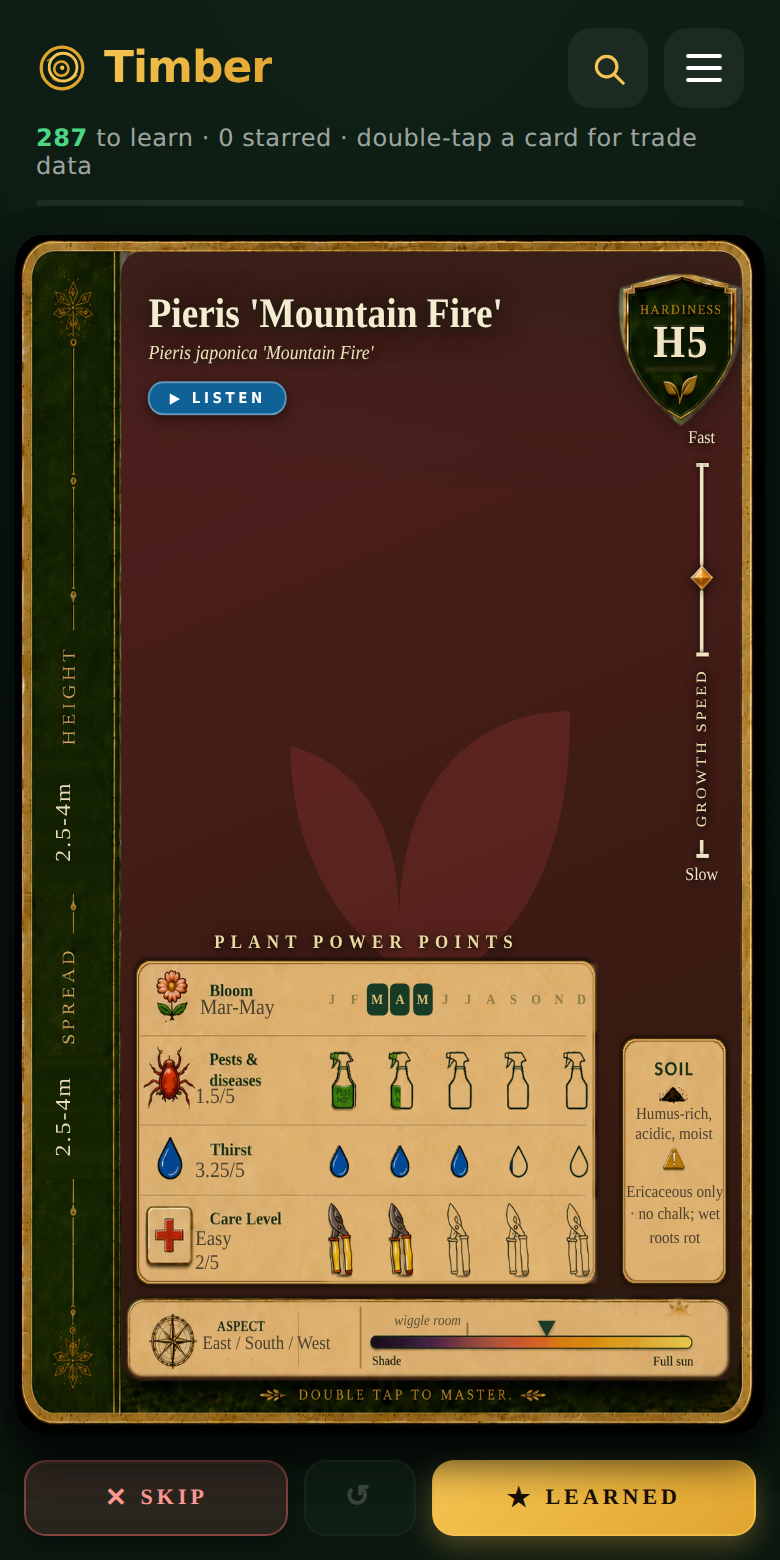
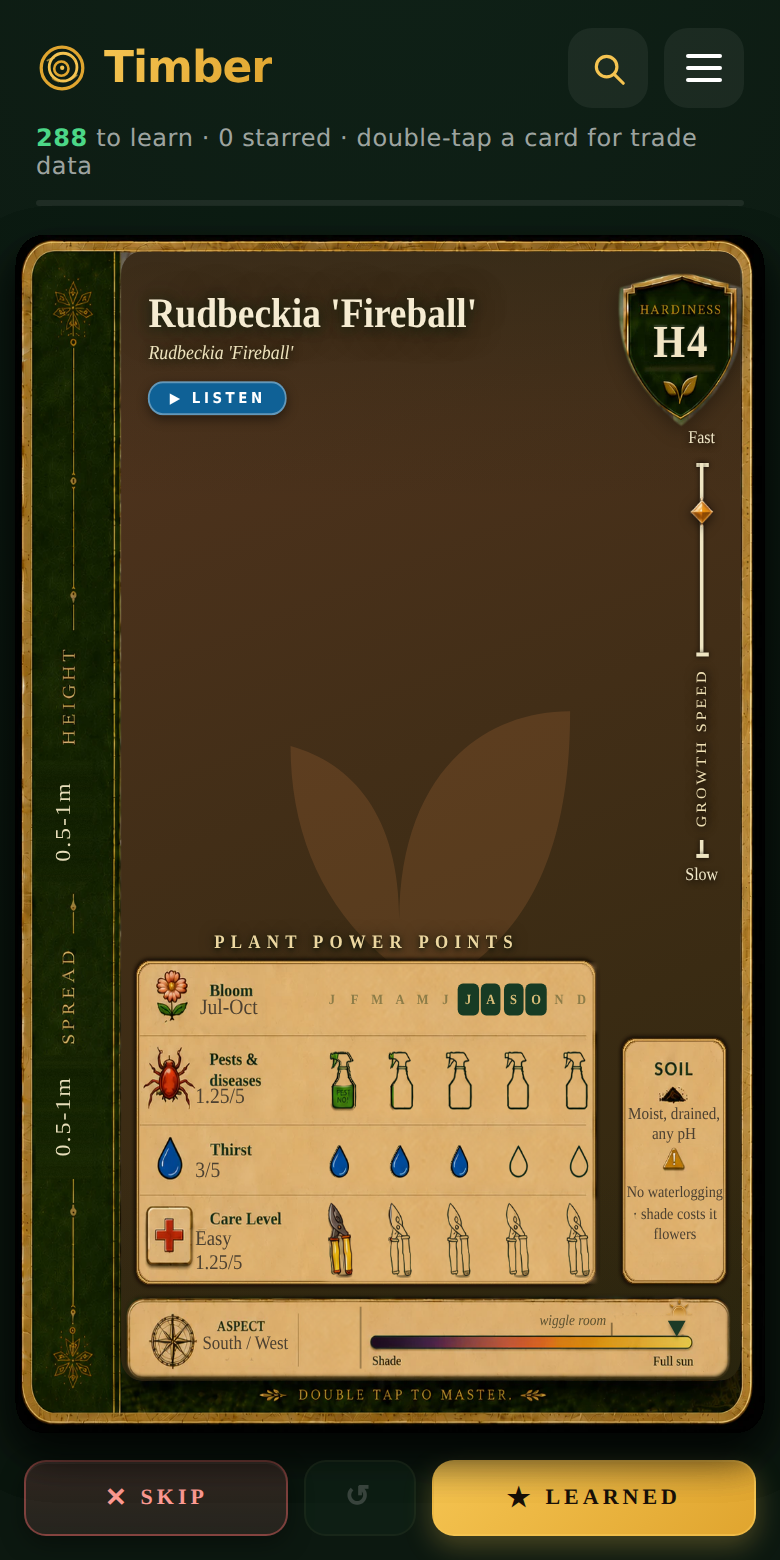
Rudbeckia 'Fireball' dealt: 288 / 86 — the card says "double" because the photograph does
A JSON and a photograph together. Not a duplicate: the deck already holds
Rudbeckia fulgida var. sullivantii 'Goldsturm', which is single-flowered and a
different plant. Nothing else in either block is a Rudbeckia.

LATIN CARRIES NO SPECIES, ON PURPOSE

Oscar's own JSON says "'Fireball' is not sufficiently distinctive from the
supplied label alone to confidently assign a species or hybrid group", so the
card is Rudbeckia 'Fireball' — genus plus cultivar, the same shape as
Pieris 'Forest Flame'. Inventing R. hirta to make the name look complete would
have put an unsourced species on a card staff read out to customers. The held
'Goldsturm' keeps its full species because that one is known.

THE VISUAL IS WRITTEN FROM THE FRAME

The research describes "daisy-like flowers", which implies the single row of ray
florets a daisy has. The photograph shows three or four whorls — unmistakably
double. A card whose words and picture disagree is the failure mode items 69, 70
and 71 all turned on, so the visual reads "Double gold petals with a broad
mahogany base · near-black central cone". Every element of that is visible in
the photograph, and the as-sent research is committed verbatim beside the fitted
file with the difference recorded.

AN IDENTIFICATION NOTE, FLAGGED NOT ACTED ON

[Inference] the dark granular conical disc reads Rudbeckia, but the toothed
ray-floret tips and gold/mahogany banding are also characteristic of Gaillardia,
[…]

diff --git a/timber.html b/timber.html
@@ -1144,7 +1144,7 @@
 
 <script>
 /* ---------- latin pronunciation (built-in speech engine — offline, no files, no deps) ---------- */
-const BUILD='r213 · 2026-09-13 · 91fd95c';
+const BUILD='r214 · 2026-09-13 · c5261a2';
 /* Shown in the menu foot so a phone's version is checkable at a glance — the SW
    serves the previous build once before swapping, which made "which build am I
    on?" a real question. DO NOT EDIT BY HAND: the trailing hash is a digest of
@@ -7985,6 +7985,19 @@ const PLANTS = [
    uses:"Ericaceous and shrub borders · woodland and courtyard gardens · pots", size:"2.5-4m H × 2.5-4m W",
    toxicity:"Harmful if eaten. Harmful to pets if eaten. Wear gloves and protective equipment when handling.", hardinessNote:"Hardy in most places throughout the UK, approximately -15 to -10°C. Young plants may benefit from winter protection.",
    seasonalImpact:"", growthSpeed:8, pestRisk:6, thirst:13, careLevel:8, sunNeed:55, sunMin:30},
+  {common:"Rudbeckia 'Fireball'", latin:"Rudbeckia 'Fireball'", hue:25,
+   visual:"Double gold petals with a broad mahogany base · near-black central cone",
+   water:"Regular at first · water through dry spells",
+   aspect:"South / West",
+   soil:"Moist, drained, any pH; No waterlogging · shade costs it flowers",
+   prune:"Deadhead often · leave the seed heads for birds, cut back in spring",
+   source:"", peak:"Jul-Oct", order:"", bench:"", root:"",
+   trade:"", retail:"", margin:"", type:"", shrink:"", returnRisk:"", pots:"",
+   cvs:"Fireball",
+   hardiness:"H4", resilience:"Robust and easy in a sunny spot with enough moisture",
+   uses:"Sunny borders · prairie and wildlife planting · pots · cut flowers", size:"0.5-1m H × 0.5-1m W",
+   hardinessNote:"Hardy through most of the UK, approximately -10 to -5°C. Good winter drainage improves reliability.",
+   seasonalImpact:"", growthSpeed:15, pestRisk:5, thirst:12, careLevel:5, sunNeed:95, sunMin:75},
 ];
 /* PLANTS:END */
 /* HOLD:BEGIN — managed by plants-tool.js; keep this marker pair.

diff --git a/VERIFY-QUEUE.md b/VERIFY-QUEUE.md
@@ -2727,6 +2727,51 @@ Oscar's JSON, and the three conversions are logged in its `uncertain` block.
 
 ---
 
+### 73. Rudbeckia 'Fireball' dealt — and the photograph says "double" where the research says "daisy"
+2026-09-13. A JSON and a photograph together, no question attached. Deck 287 → 288.
+
+**Not a duplicate.** The deck already holds `Rudbeckia fulgida var. sullivantii
+'Goldsturm'` — single golden ray florets, a different plant. Nothing else in the
+deck or the hold block is a Rudbeckia.
+
+**A. `latin` deliberately carries NO species.** Oscar's own JSON says so:
+*"'Fireball' is not sufficiently distinctive from the supplied label alone to
+confidently assign a species or hybrid group."* So the card is
+`Rudbeckia 'Fireball'` — genus plus cultivar, the same shape as
+`Pieris 'Forest Flame'`. Inventing *R. hirta* to make the name look complete
+would have put an unsourced species on a customer-facing card. The held
+'Goldsturm' keeps its full species, because that one is known.
+
+**B. The card says "double" because the picture does.** The research describes
+*"daisy-like flowers"*, which implies the single row of ray florets a daisy has.
+The photograph shows three or four whorls — unmistakably double. A card whose
+words and picture disagree is the failure mode items 69, 70 and 71 all turned
+on, so the `visual` was written from the frame: *"Double gold petals with a
+broad mahogany base · near-black central cone"*. Every element of that is
+visible in the photograph. The as-sent research is committed verbatim beside the
+fitted file.
+
+**C. An identification note, flagged rather than acted on.** `[Inference]` the
+dark, granular, conical disc reads Rudbeckia. But the toothed ray-floret tips
+and the gold/mahogany banding are also characteristic of *Gaillardia*, and
+double Gaillardia cultivars exist. **Oscar read the bench label and it says
+Rudbeckia, so the card says Rudbeckia** — a photograph is not evidence against a
+label someone actually read. Recorded only so that if the cultivar is ever
+chased down (A above leaves that open), the genus gets a second look at the same
+time rather than being assumed settled.
+
+**D. Conversions, all logged in the card's `uncertain` block.** `peak` "Summer to
+autumn" → **Jul-Oct**, matching the held 'Goldsturm'. `aspect` "Full sun" is a
+light level the compass rule rejects → **South / West**, derived from sunNeed 95.
+`foliage` "Herbaceous" → **deciduous**, the schema's controlled vocabulary; the
+field does not reach the card either way.
+
+**E. Validator warnings accepted as sent.** `pestRisk` 5 and `careLevel` 5 read
+to the checker as possible unconverted 0-5 ratings. They are Oscar's researched
+0-20 values and are reasonable for a robust border perennial.
+
+---
+
 ## Accepted, not defects
 
 Recorded so the same questions don't get re-litigated every batch.
